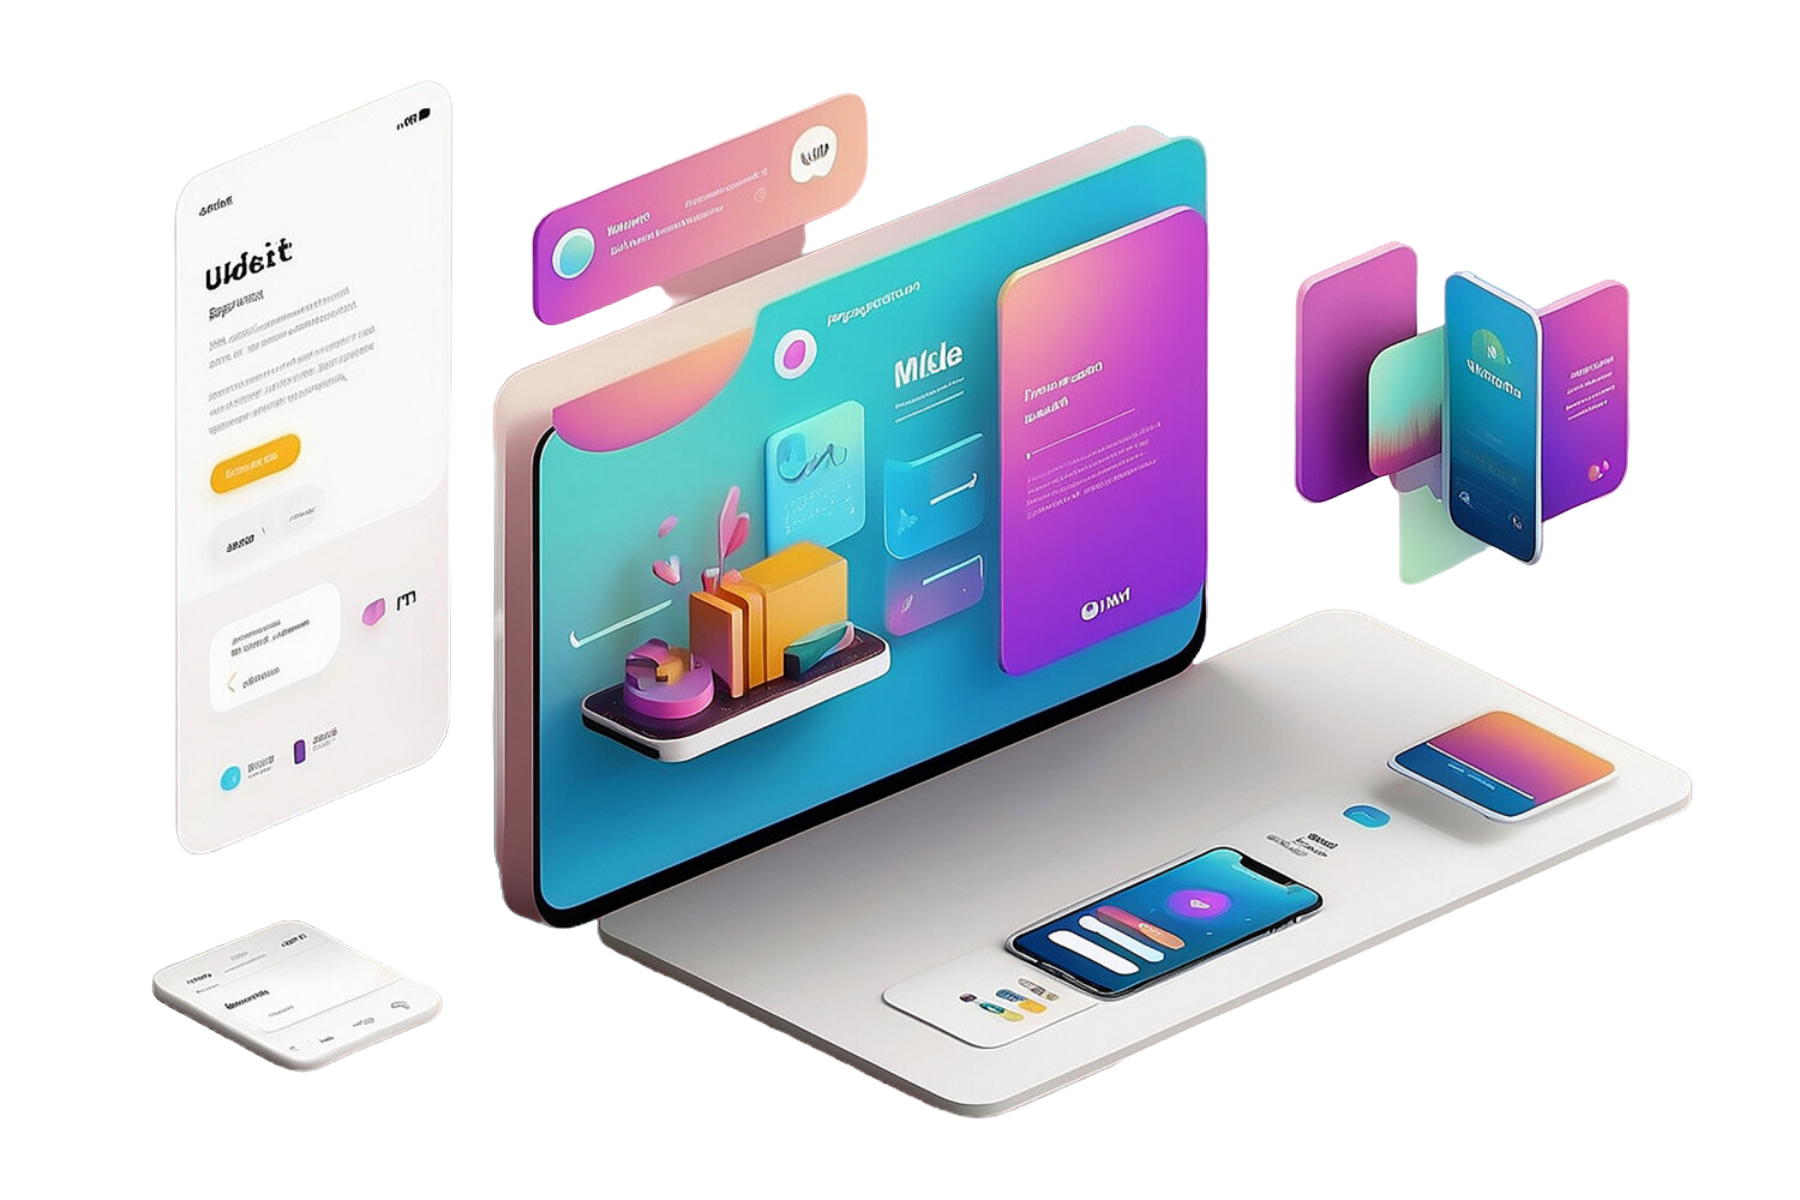
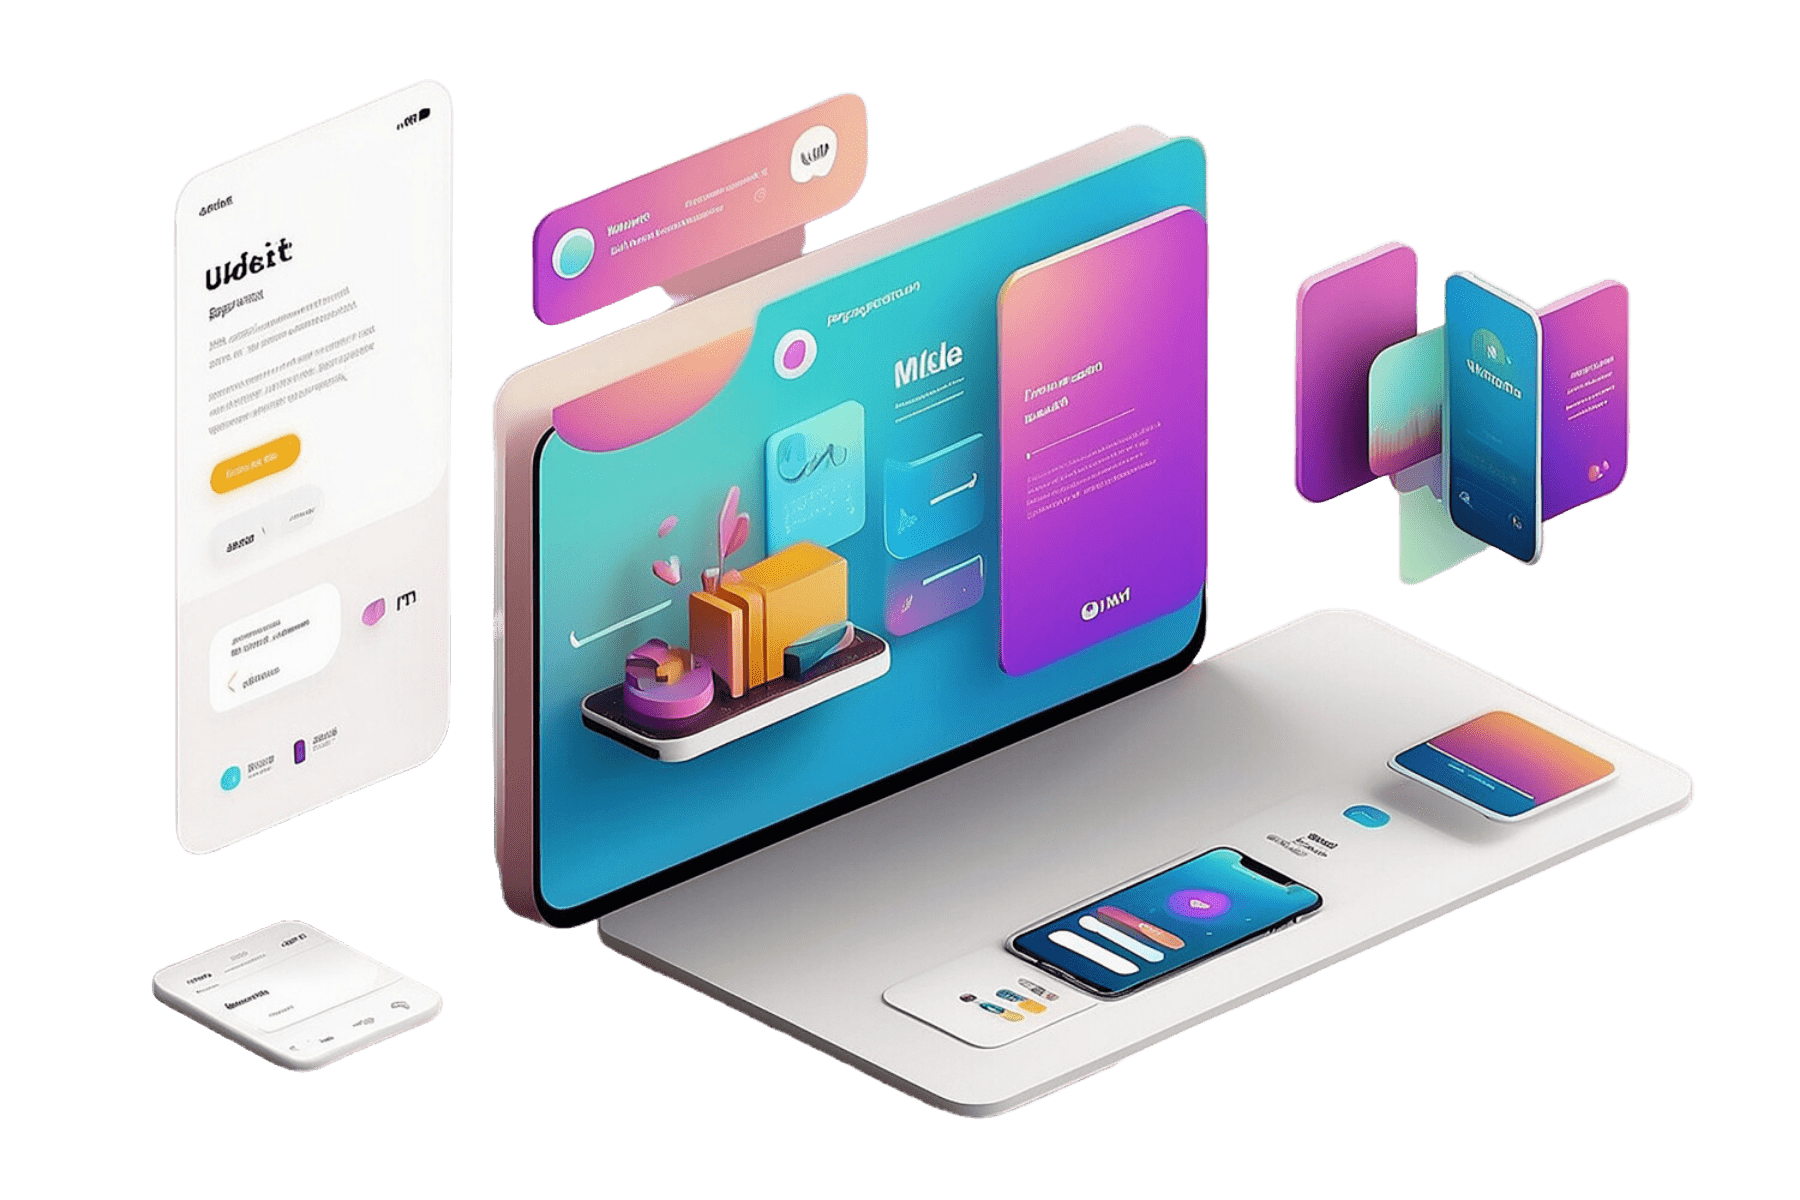
changes for button and image copression

diff --git a/src/app/Shared/Navbar/Navbar.component.html b/src/app/Shared/Navbar/Navbar.component.html
@@ -23,17 +23,17 @@
 
   <!-- call to book Menu -->
   <div class="button-container flex gap-x-10">
-    <div
+    <button (click)="openCalendly()" 
       class="hidden lg:flex justify-center items-center gap-2 bg-brand-default hover:bg-brand-dark px-6 py-[0.8rem] text-white text-lg ease-in duration-200 rounded-full"
     >
-      <button (click)="openCalendly()">Book a call</button>
+      <div>Book a call</div>
       <img
         width="32"
         height="32"
         src="https://img.icons8.com/hieroglyphs/32/FFFFFF/up-right.png"
         alt="up-right"
       />
-    </div>
+    </button>
 
     <!-- Hamburger Menu (also acts as close button) -->
     <div

diff --git a/src/app/Components/LandingPage/Hero-Section/Hero-Section.component.html b/src/app/Components/LandingPage/Hero-Section/Hero-Section.component.html
@@ -25,8 +25,9 @@
   <div
     class="cta-button flex justify-center items-center gap-2 bg-brand-default hover:bg-brand-dark px-6 py-[0.8rem] text-white text-lg ease-in duration-200 rounded-full cursor-pointer"
     #ctaButton
+    (click)="openCalendly()"
   >
-    <a (click)="openCalendly()"> Get Started Today </a>
+    <a > Get Started Today </a>
     <img
       width="32"
       height="32"
